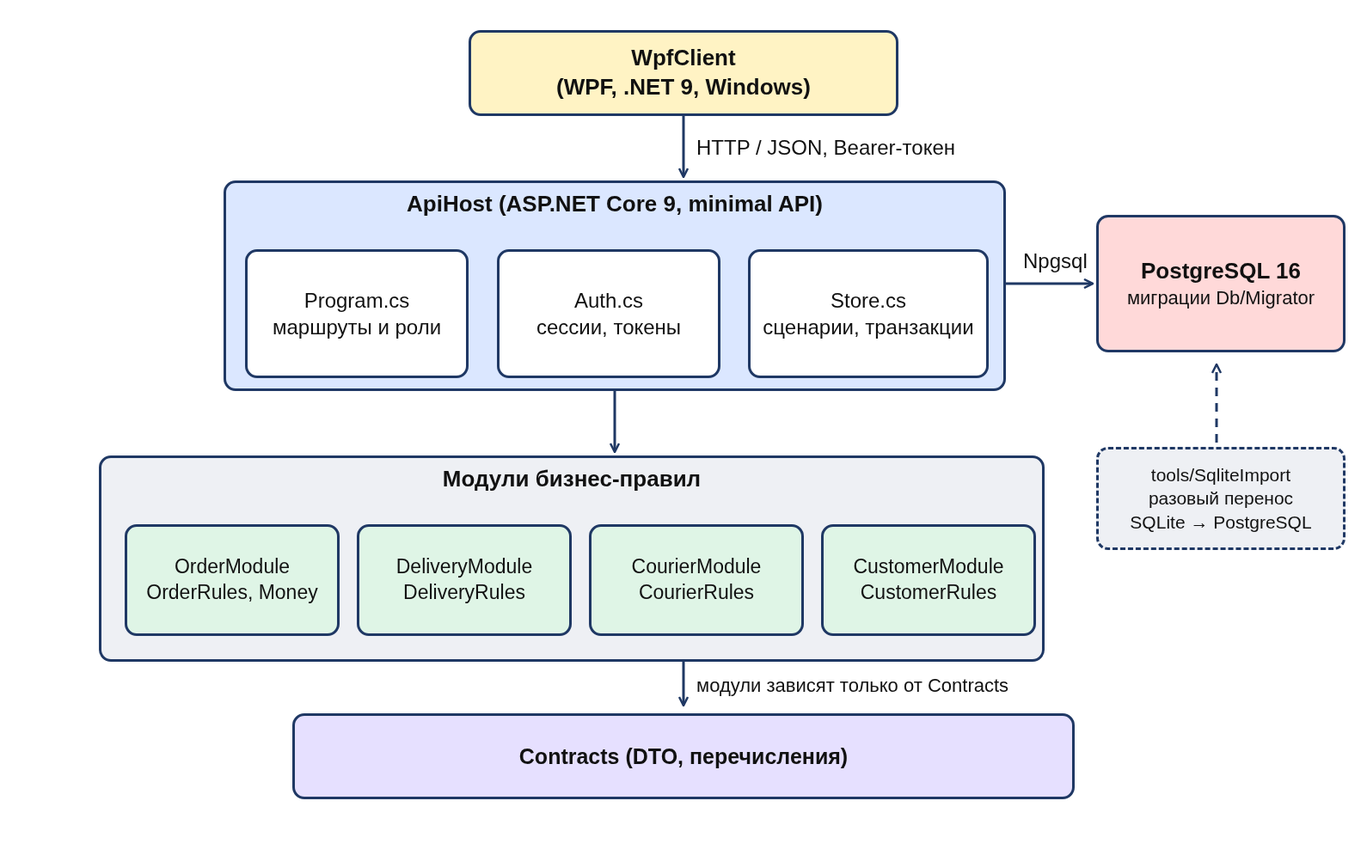
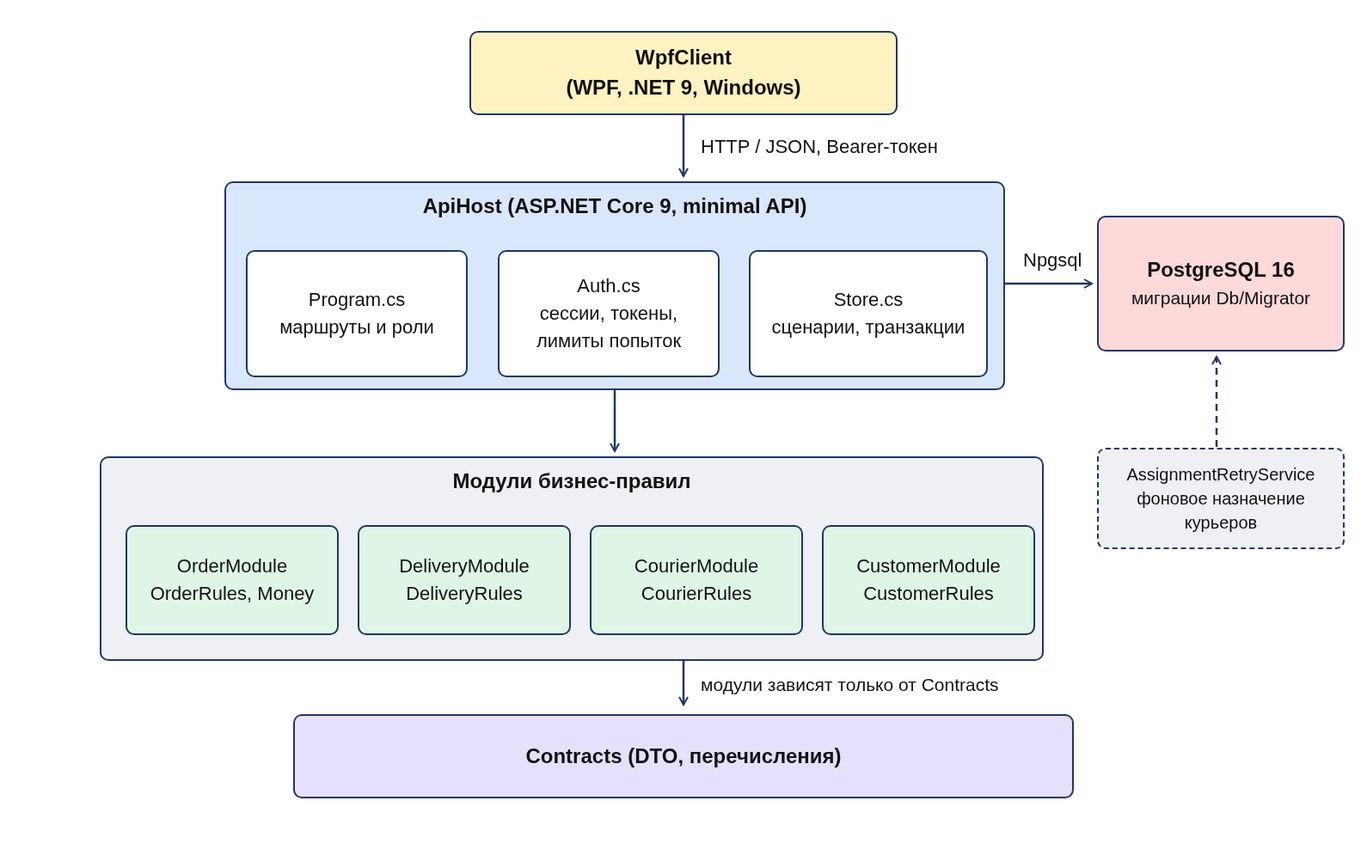
docs: описать хранение счётчиков попыток, X-Forwarded-For и проверку ввода, перерисовать схемы
Схема архитектуры показывает фоновое назначение курьеров, схема БД — orders.request_hash, таблицу rate_limits и индексы миграции 0006. Число тестов обновлено до 277.

diff --git a/README.md b/README.md
@@ -38,7 +38,7 @@
 - `src/ApiHost` — ASP.NET Core 9 minimal API, хранилище на PostgreSQL (`Store.cs`), миграции схемы (`Db/`), авторизация (`Auth.cs`), проверка конфигурации при запуске (`StartupChecks.cs`), фоновое назначение курьеров (`AssignmentRetryService.cs`).
 - `src/Contracts` — DTO и перечисления; `OrderModule`, `DeliveryModule`, `CourierModule`, `CustomerModule` — бизнес-правила каждого модуля (`*Rules.cs`), общение через контракты.
 - `src/WpfClient` — клиентское приложение WPF (вход, регистрация клиента, рабочие места по ролям).
-- `tests/` — 258 тестов (правила модулей, сценарии, миграции, идемпотентность, фоновое назначение, регистрация, конфигурация, HTTP-API и роли на реальном PostgreSQL).
+- `tests/` — 277 тестов (правила модулей, сценарии, миграции, идемпотентность, фоновое назначение, регистрация, ограничение попыток, проверка ввода, конфигурация, HTTP-API и роли на реальном PostgreSQL).
 - `docs/` — этапы курсового, ADR, архитектура, тесты.
 
 ![Архитектура](docs/img/architecture.png)
@@ -48,7 +48,7 @@ PostgreSQL 16. Строка подключения — `ConnectionStrings:Defaul
 
 ![Схема БД (PostgreSQL)](docs/img/db-schema.png)
 
-Текстовое описание схемы — в [docs/architecture.md](docs/architecture.md#схема-бд-миграции-00010006) (диаграмма показывает таблицы миграций 0001–0004; 0005 добавляет `orders.request_hash`, 0006 — индексы очереди назначения и активных доставок курьера). Основные таблицы: `customers`, `customer_addresses`, `couriers`, `users` (пароли PBKDF2), `products` (`price_kopecks`), `orders`, `order_items`, `deliveries`, `status_history`, `order_history`, `order_changes`, `sessions`, `schema_migrations`.
+Текстовое описание схемы — в [docs/architecture.md](docs/architecture.md#схема-бд-миграции-00010007): 0005 добавляет `orders.request_hash`, 0006 — индексы очереди назначения и активных доставок курьера, 0007 — таблицу счётчиков попыток `rate_limits`. Основные таблицы: `customers`, `customer_addresses`, `couriers`, `users` (пароли PBKDF2), `products` (`price_kopecks`), `orders`, `order_items`, `deliveries`, `status_history`, `order_history`, `order_changes`, `sessions`, `rate_limits`, `schema_migrations`.
 
 ### Обновление версии
 Новая версия приложения при старте сама применяет недостающие миграции; уже применённые не повторяются, данные сохраняются. Перед обновлением рабочей базы сделайте резервную копию:
@@ -145,7 +145,9 @@ docker compose up --build
 
 ### Безопасность учётных записей
 - Пароли хранятся как PBKDF2-SHA256 (100 000 итераций), токены сессий — как SHA-256.
-- После 5 неудачных попыток входа под одним логином вход блокируется на 5 минут (`429 TOO_MANY_ATTEMPTS`; `Security:MaxLoginFailures`, `Security:LoginLockoutSeconds`).
+- После 5 неудачных попыток входа под одним логином с одного адреса вход под этим логином с этого адреса блокируется на 5 минут (`429 TOO_MANY_ATTEMPTS`; `Security:MaxLoginFailures`, `Security:LoginLockoutSeconds`). Владелец учётной записи с другого адреса по-прежнему может войти. Счётчики попыток входа и регистрации хранятся в PostgreSQL (таблица `rate_limits`): они общие для всех экземпляров API и не сбрасываются перезапуском.
+- Если перед API стоит обратный прокси (nginx и т. п.), укажите его адрес в `ForwardedHeaders:KnownProxies` или подсеть в `ForwardedHeaders:KnownNetworks` (в `docker-compose.prod.yml` — `TRUSTED_PROXIES`, `TRUSTED_NETWORKS`): тогда адрес клиента берётся из `X-Forwarded-For`. От остальных источников заголовок не учитывается, поэтому подделать адрес нельзя.
+- Входные данные проверяются: логин (в том числе заданный оператором) — по правилам регистрации, телефон — до 32 символов (`INVALID_PHONE`), имя — до 100, части адреса — до 100, квартира — до 20, комментарий и причина неудачи — до 500 символов (`INVALID_COMMENT`). Числовые значения статусов (например, `99`) отклоняются с `400 INVALID_REQUEST`.
 - Пароль новой учётной записи — не короче 8 символов и не равен логину; если оператор его не задал, генерируется случайный из 12 символов (при самостоятельной регистрации пароль обязателен).
 - Сессия живёт 12 часов; при смене пароля остальные сессии пользователя завершаются. Если сессия закончилась, WPF-клиент сообщает об этом и возвращает к окну входа.
 - При удалении клиента или курьера его сессии сразу становятся недействительными.
@@ -197,7 +199,7 @@ dotnet test OrderDeliveryManagementSystem.sln
 
 | Метод | Endpoint | Что делает |
 |---|---|---|
-| POST | `/api/auth/login`, `/api/auth/logout` | вход / выход (сессии хранятся в PostgreSQL и переживают перезапуск, 12 часов); после 5 неудачных попыток — `429 TOO_MANY_ATTEMPTS` |
+| POST | `/api/auth/login`, `/api/auth/logout` | вход / выход (сессии хранятся в PostgreSQL и переживают перезапуск, 12 часов); после 5 неудачных попыток с одного адреса — `429 TOO_MANY_ATTEMPTS` |
 | POST | `/api/auth/register` | регистрация клиента (`name`, `phone`, `login`, `password`), сразу возвращает токен; `409 LOGIN_TAKEN`, `400 INVALID_LOGIN` / `WEAK_PASSWORD`, `403 REGISTRATION_DISABLED`, `429 TOO_MANY_REGISTRATIONS` |
 | POST | `/api/auth/password` | смена своего пароля (`oldPassword`, `newPassword` ≥ 8 символов); остальные сессии пользователя завершаются |
 | GET | `/api/auth/me`, `/api/state` | текущий пользователь; данные для UI (фильтруются по роли) |

diff --git a/docs/testing.md b/docs/testing.md
@@ -48,7 +48,7 @@ Created -> Assigned -> Accepted -> InTransit -> Delivered
 
 ## Фактическое состояние
 
-258 автоматических тестов (41 модульный + 217 интеграционных; `dotnet test OrderDeliveryManagementSystem.sln`, все проходят). Интеграционные тесты работают на **реальном PostgreSQL**: каждый тест создаёт и удаляет собственную базу.
+277 автоматических тестов (41 модульный + 236 интеграционных; `dotnet test OrderDeliveryManagementSystem.sln`, все проходят). Интеграционные тесты работают на **реальном PostgreSQL**: каждый тест создаёт и удаляет собственную базу.
 
 Подключение к серверу — переменная `TEST_PG_ADMIN` (строка подключения с правом `CREATE DATABASE`); по умолчанию `Host=localhost;Port=5432;Username=postgres;Password=postgres;Database=postgres`. Быстрый старт: `docker run -d -p 5432:5432 -e POSTGRES_PASSWORD=postgres postgres:16`. В CI — service-контейнер (`.github/workflows/ci.yml`).
 
@@ -57,14 +57,15 @@ Created -> Assigned -> Accepted -> InTransit -> Delivered
 | `OrderModule.Tests/RulesTests` | переходы статусов, таблица «доставка → заказ» (`Failed` ≠ `Cancelled`), финальные статусы, количества, права отмены, правила курьера и клиента |
 | `OrderModule.Tests/MoneyTests` | точность копеек, округление, 0.1+0.1+0.1, переполнение, границы цены |
 | `Integration.Tests/ScenarioTests` | сценарии ТЗ на `Store`: создание, автоназначение, нет курьера, повторное назначение, полный цикл, отмена, неудача, права ролей, адреса, редактирование, справочники |
-| `Integration.Tests/MigrationTests` | миграции: чистая БД, повторный запуск, обновление с данными, откат неудачной миграции, чужая и более новая схема, параллельный старт, перезапуск |
+| `Integration.Tests/MigrationTests` | миграции: чистая БД, повторный запуск, обновление с данными, миграция 0006 при нескольких активных доставках курьера, откат неудачной миграции, чужая и более новая схема, параллельный старт, перезапуск |
 | `Integration.Tests/ReliabilityTests` | отказы БД (откат, повтор), идемпотентность `requestId`, параллельные назначения и дубли, сохранение комментария |
 | `Integration.Tests/ChangeLogTests` | журнал изменений: значения, автор, время, no-op, очистка, перезапуск, `actor_id` |
 | `Integration.Tests/IdempotencyTests` | повтор `requestId`: идентичный и эквивалентный запрос, изменённые товары, количество, адрес, квартира, комментарий, сохранённый адрес и флаг сохранения → `IDEMPOTENCY_CONFLICT`; разные клиенты; заказы до миграции 0005; параллельные одинаковые и различающиеся запросы; HTTP 409 |
 | `Integration.Tests/AssignmentRecoveryTests` | временный сбой БД и восстановление, проблемная доставка не блокирует остальные, временные и невременные ошибки БД, нет курьеров → курьер появился, порядок и размер прохода, завершённые и отменённые доставки не трогаются, повторные проходы без дублей, несколько обработчиков параллельно, ручное назначение во время фонового, курьер с активной доставкой, уникальный индекс, повтор после `Failed`; служба: экспоненциальная пауза, сетевые ошибки, остановка, отключение; фоновое назначение в работающем API |
 | `Integration.Tests/StartupConfigTests` | рабочее окружение: нет строки подключения, стандартный/короткий пароль БД, `Seed:Demo=true`, слабый пароль оператора — запуск запрещён; Development со стандартными значениями; API в Production с тестовыми настройками не стартует, с надёжными — стартует без демо-пользователей; compose-файлы и `appsettings.json` без паролей |
-| `Integration.Tests/AccountSecurityTests` | отзыв сессий удалённых клиента и курьера, актуальное имя в сессии, стойкий сгенерированный пароль, отказ при слабом пароле, блокировка входа после неудачных попыток и её сброс |
+| `Integration.Tests/AccountSecurityTests` | отзыв сессий удалённых клиента и курьера, актуальное имя в сессии, стойкий сгенерированный пароль, отказ при слабом пароле, блокировка входа после неудачных попыток и её сброс, блокировка по паре «логин + адрес», сохранение блокировки после перезапуска API, `X-Forwarded-For` от доверенного прокси и игнорирование поддельного заголовка |
 | `Integration.Tests/RegistrationTests` | регистрация клиента: вход сразу после регистрации, заказ, повторный вход; занятый логин (без учёта регистра), формат логина, слабый пароль, отключение регистрации, лимит попыток |
+| `Integration.Tests/ValidationTests` | числовые и неизвестные значения статусов → 400, проверка логина и телефона при создании курьера оператором, ограничение длины комментария, адреса, названия товара и телефона, экранирование `%` и `_` в поиске |
 | `Integration.Tests/ApiTests` | HTTP: матрица роль × endpoint (401/403), изоляция клиентов, права на статусы, некорректный ввод, полные циклы, деньги, перезапуск приложения, 500 `STORAGE_ERROR`, 503 при временной недоступности БД |
 
 ## Команды проверки

diff --git a/CHANGELOG.md b/CHANGELOG.md
@@ -14,7 +14,10 @@
 - Контейнер API запускается не от root.
 - Сессии удалённых клиентов и курьеров сразу становятся недействительными.
 - Сгенерированный пароль новой учётной записи — 12 случайных символов (было 6 цифр); заданный пароль проверяется на стойкость.
-- Ограничение подбора пароля: 5 неудачных входов — блокировка логина на 5 минут (`429 TOO_MANY_ATTEMPTS`).
+- Ограничение подбора пароля: 5 неудачных входов под одним логином с одного адреса — блокировка на 5 минут (`429 TOO_MANY_ATTEMPTS`). Ключ «логин + адрес» не позволяет постороннему заблокировать чужую учётную запись.
+- Счётчики неудачных входов и попыток регистрации хранятся в PostgreSQL (таблица `rate_limits`, миграция 0007): общие для всех экземпляров API и не сбрасываются перезапуском.
+- Адрес клиента за обратным прокси берётся из `X-Forwarded-For`, только если прокси указан в `ForwardedHeaders:KnownProxies` / `KnownNetworks`.
+- Логин, заданный оператором при создании клиента или курьера, проверяется по правилам регистрации; ограничена длина телефона, имени, адреса, комментария и названия товара.
 
 ### Исправлено
 - Повтор `POST /api/orders` с тем же `requestId`, но другими товарами, количеством, адресом или комментарием возвращает `409 IDEMPOTENCY_CONFLICT` вместо старого заказа (миграция 0005, `orders.request_hash`).
@@ -25,6 +28,10 @@
 - При временной недоступности БД API отвечает `503 STORAGE_ERROR` с `Retry-After`; ошибки данных и SQL остаются `500` и не считаются временными.
 - Одна доставка, назначение которой падает с ошибкой данных, больше не останавливает фоновое назначение остальных.
 - Имя в сессии (`GET /api/auth/me`) обновляется после переименования клиента или курьера, а не остаётся прежним до следующего входа.
+- Миграция 0006 больше не падает, если у курьера уже несколько активных доставок: лишние возвращаются в очередь назначения.
+- Числовые значения статусов доставки и состояния курьера (например, `99`) возвращают `400 INVALID_REQUEST` вместо `500`.
+- Символы `%` и `_` в строке поиска доставок ищутся как обычные символы.
+- WPF: при изменении заказа сохраняется текущий адрес (не нужно вводить заново); адрес сервера без `http://` дополняется автоматически; доставки сортируются по времени создания; колонка «Адрес и клиент» шире.
 - WPF-клиент при завершённой сессии (истёк срок, сменён пароль, удалена учётная запись) возвращает к окну входа вместо постоянного «Нет связи с сервером»; автообновление не накладывает запросы друг на друга.
 
 ### Добавлено

diff --git a/docs/architecture.md b/docs/architecture.md
@@ -31,7 +31,7 @@
 - **Деньги** — целые копейки (`bigint`), наружу рубли (`decimal`).
 - **Статусы:** заказ выводится из доставки; `Failed → DeliveryFailed`, `Cancelled → Cancelled`.
 
-### Схема БД (миграции 0001–0006)
+### Схема БД (миграции 0001–0007)
 
 ```text
 customers(id, name, phone)                      customer_addresses(id, customer_id, label, city, street, house, apartment)
@@ -42,12 +42,13 @@ deliveries(id, order_id, courier_id, status, created_at, started_at, finished_at
 status_history(id, delivery_id, status, at, comment, actor_id)   order_history(id, order_id, status, at, comment, actor_id)
 order_changes(id, order_id, at, actor_id, actor_name, field, old_value, new_value)
 sessions(token_hash, user_id, role, ref_id, name, expires_at)
+rate_limits(key, hits, window_start)
 schema_migrations(version, name, applied_at)
 ```
 
-Миграция 0005 добавляет `orders.request_hash` — отпечаток запроса создания заказа для проверки повторов `requestId`. Миграция 0006 добавляет индекс очереди `ix_deliveries_pending` (доставки `Created` без курьера) и уникальный индекс `ux_deliveries_active_courier` (не больше одной активной доставки у курьера).
+Миграция 0005 добавляет `orders.request_hash` — отпечаток запроса создания заказа для проверки повторов `requestId`. Миграция 0006 добавляет индекс очереди `ix_deliveries_pending` (доставки `Created` без курьера) и уникальный индекс `ux_deliveries_active_courier` (не больше одной активной доставки у курьера); если у курьера уже несколько активных доставок, перед созданием индекса лишние возвращаются в очередь назначения. Миграция 0007 добавляет `rate_limits` — счётчики неудачных входов (ключ «логин + адрес») и попыток регистрации (ключ — адрес).
 
-Диаграмма схемы (PostgreSQL, миграции 0001–0004; 0005–0006 добавляют только столбец и индексы):
+Диаграмма схемы (PostgreSQL, миграции 0001–0007):
 
 ![Схема БД](img/db-schema.png)
 

diff --git a/docs/decisions/ADR-008-deployment-idempotency-assignment-recovery.md b/docs/decisions/ADR-008-deployment-idempotency-assignment-recovery.md
@@ -43,10 +43,10 @@
 
 - Для рабочего запуска нужно явно задать пароли (см. README, «Рабочее развёртывание»).
 - Клиенты API, которые намеренно переиспользовали `requestId` для разных заказов, получат 409 и должны генерировать новый ключ для каждого заказа (WPF-клиент так и делает).
-- Миграция 0006 не применится, если в базе уже есть курьер с двумя активными доставками; такие данные нужно исправить вручную до обновления.
+- Если в базе уже есть курьер с несколькими активными доставками, миграция 0006 оставляет ему самую продвинутую (в пути, затем принятую, затем более раннюю), а остальные возвращает в `Created` без курьера с записью в истории; их назначит фоновая служба.
 
 ## Оставшиеся ограничения
 
-- Счётчик неудачных входов хранится в памяти экземпляра API: при нескольких экземплярах лимит действует на каждый отдельно.
+- Ограничение входа действует по паре «логин + адрес»: подбор пароля с множества адресов замедляется только стойкостью пароля и PBKDF2. Счётчики хранятся в PostgreSQL (`rate_limits`, миграция 0007) и общие для всех экземпляров API.
 - Фоновое назначение не уведомляет клиента и оператора: WPF-клиент увидит назначение при очередном обновлении списка (каждые 8 секунд).
 - Пароль учётной записи PostgreSQL в рабочем compose передаётся переменной окружения; для промышленной эксплуатации рекомендуется внешнее хранилище секретов (Docker secrets, Vault и т. п.).

diff --git a/docs/tz-traceability.md b/docs/tz-traceability.md
@@ -27,9 +27,11 @@
 | Обновление установки | недостающие миграции применяются при старте, данные не удаляются ([architecture.md](architecture.md#обновление-установки)) | `Upgrade_FromV1_KeepsAllExistingRecords`, `FailingMigration_IsRolledBack_AndKeepsPreviousVersionAndData` |
 | Идемпотентность и устойчивость к сбоям | `requestId` с отпечатком запроса (`409 IDEMPOTENCY_CONFLICT`), транзакции, `FOR UPDATE` | `ReliabilityTests`, `IdempotencyTests`, `PostOrders_WithSameRequestId_IsIdempotent` |
 | Назначение после сбоя (сценарий 2) | фоновое назначение `AssignmentRetryService`, `FOR UPDATE SKIP LOCKED` ([ADR-008](decisions/ADR-008-deployment-idempotency-assignment-recovery.md)) | `AssignmentRecoveryTests`, `AssignmentRetryServiceTests`, `AssignmentRetryApiTests` |
-| Безопасность развёртывания | окружения Development/Production, `StartupChecks`, `docker-compose.prod.yml` | `StartupConfigTests`, `AccountSecurityTests` |
+| Безопасность развёртывания | окружения Development/Production, `StartupChecks`, `docker-compose.prod.yml`, учёт `X-Forwarded-For` только от доверенного прокси | `StartupConfigTests`, `AccountSecurityTests` |
+| Регистрация клиента | `POST /api/auth/register`, окно «Создать учётную запись клиента» в WPF, лимит попыток с адреса | `RegistrationTests` |
+| Проверка входных данных | перечисления без числовых значений, длина полей, правила логина, экранирование поиска | `ValidationTests` |
 | Запуск | `docker compose up --build` (локально), `docker compose -f docker-compose.prod.yml up -d` (сервер) или `dotnet run` | CI (`.github/workflows/ci.yml`) |
-| Тесты | 258 автоматических тестов | `dotnet test OrderDeliveryManagementSystem.sln` |
+| Тесты | 277 автоматических тестов | `dotnet test OrderDeliveryManagementSystem.sln` |
 
 ## Допустимые отклонения от ТЗ
 
